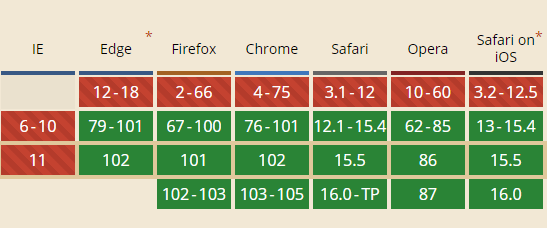
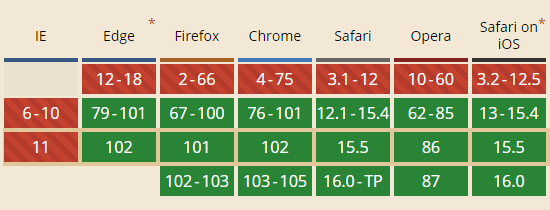
added dark themede image of caniuse

Changed region(s): [[0.0, 0.0857, 1.0, 0.9429], [0.2486, 0.0857, 0.2797, 0.1143]]

diff --git a/_posts/2022-06-08-adopting-dark-theme-in-jekyll-blog.md b/_posts/2022-06-08-adopting-dark-theme-in-jekyll-blog.md
@@ -9,7 +9,22 @@ We got so used to automatic theme switching on our devices.
 CSS supports themes with [`prefers-color-scheme`](https://developer.mozilla.org/en-US/docs/Web/CSS/@media/prefers-color-scheme).  
 With decent support in browsers.  
 
-![](/assets/images/can-i-use-prefers-color-scheme.png)
+<picture>
+<source srcset="/assets/images/can-i-use-prefers-color-scheme.webp"
+            media="(prefers-color-scheme: light)"
+            type="image/webp">
+    <source srcset="/assets/images/can-i-use-prefers-color-scheme-dark.webp"
+            media="(prefers-color-scheme: dark)"
+            type="image/webp">
+    <source srcset="/assets/images/can-i-use-prefers-color-scheme.png"
+            media="(prefers-color-scheme: light)"
+            type="image/png">
+    <source srcset="/assets/images/can-i-use-prefers-color-scheme-dark.png"
+            media="(prefers-color-scheme: dark)"
+            type="image/png">
+    <img src="/assets/images/can-i-use-prefers-color-scheme.png" alt="" />
+</picture>
+
 
 Yet most of the sites don't utilize the power of it.
 
